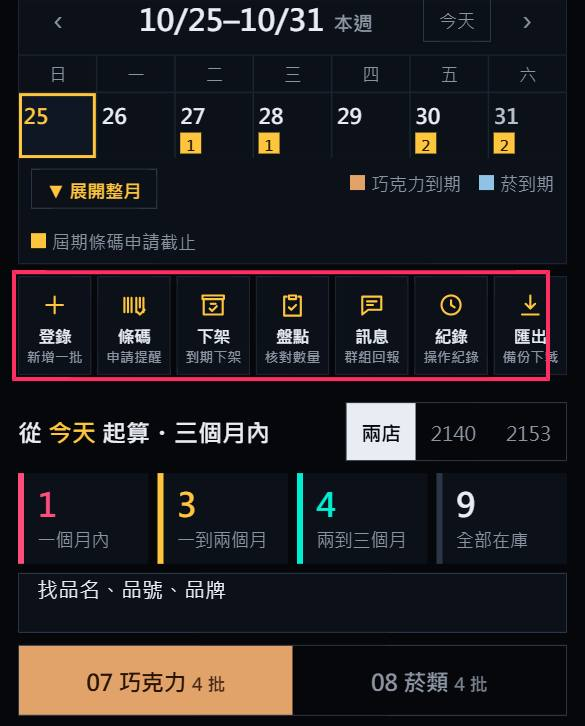
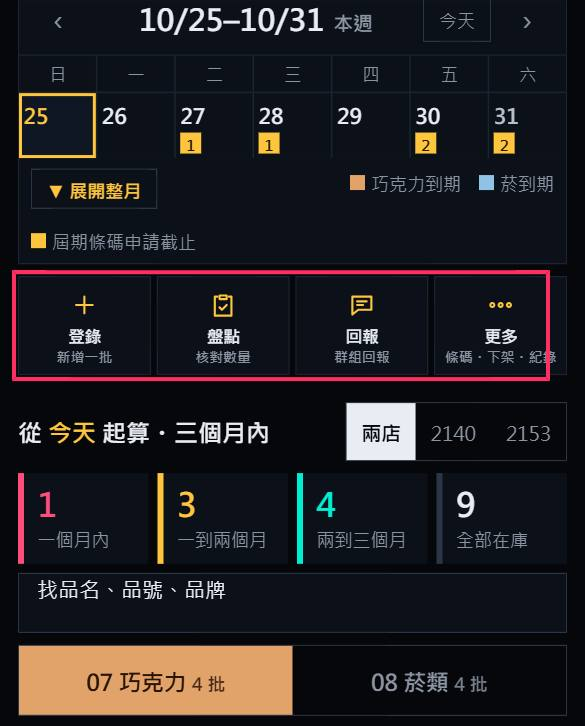
v12: 簡化 4 鍵首頁、回報一鍵複製自動切類、登錄選填收合

Changed region(s): [[0.3077, 0.3939, 0.6769, 0.5152], [0.7077, 0.3939, 0.9538, 0.5152], [0.0308, 0.3939, 0.2769, 0.5152]]

diff --git a/index.html b/index.html
@@ -356,6 +356,17 @@ header{position:sticky;top:0;z-index:10;background:var(--ground);padding-top:8px
 .tb[aria-pressed="true"] small{color:#5a4100}
 .whatis{border:1px solid var(--gold);padding:8px 10px;margin:-2px 0 10px;font-size:12.5px;line-height:1.5;color:var(--ink)}
 .whatis b{color:var(--gold)}
+.tools{grid-template-columns:repeat(4,1fr)!important}
+.hidk{display:none}
+.msum{display:block;width:100%;text-align:left;padding:10px 0;font-size:13px;font-weight:900;color:var(--faint)}
+.msum::before{content:"▸ ";color:var(--gold)}
+.more.open .msum::before{content:"▾ "}
+.more .mbody{display:none}
+.more.open .mbody{display:block}
+.mgrid{display:grid;grid-template-columns:1fr 1fr;gap:8px}
+.mgrid button{border:1px solid var(--edge);background:var(--surface);padding:14px 8px;text-align:left;font-weight:900;font-size:15px}
+.mgrid small{display:block;font-size:11.5px;color:var(--faint);font-weight:700;margin-top:3px}
+#mca button{height:50px;font-size:16px;font-weight:900}
 </style>
 </head>
 <body>
@@ -378,12 +389,10 @@ header{position:sticky;top:0;z-index:10;background:var(--ground);padding-top:8px
 
   <div class="tools">
     <button class="tb" id="tAdd" data-k="add"><svg viewBox="0 0 24 24"><path d="M12 5v14M5 12h14"/></svg>登錄<small>新增一批</small></button>
-    <button class="tb" id="tApply" data-k="apply"><svg viewBox="0 0 24 24"><path d="M4 6v12M7 6v12M10 6v12M14 6v12M17 6v8M20 6v12"/><path d="m15 18 2 2 4-4"/></svg>條碼<small>申請提醒</small></button>
-    <button class="tb" id="tPull" data-k="pull"><svg viewBox="0 0 24 24"><path d="M4 7h16v13H4zM3 4h18v3H3z"/><path d="M10 11h4"/><path d="m9 15 2 2 4-4"/></svg>下架<small>到期下架</small></button>
     <button class="tb" id="tCount" data-k="count"><svg viewBox="0 0 24 24"><path d="M9 4h6v3H9zM7 5H5v16h14V5h-2"/><path d="m9 14 2 2 4-4"/></svg>盤點<small>核對數量</small></button>
-    <button class="tb" id="tMsg" data-k="msg"><svg viewBox="0 0 24 24"><path d="M4 5h16v11H9l-5 4z"/><path d="M8 9h8M8 12h5"/></svg>訊息<small>群組回報</small></button>
-    <button class="tb" id="tLog" data-k="log"><svg viewBox="0 0 24 24"><circle cx="12" cy="12" r="8"/><path d="M12 8v4l3 2"/></svg>紀錄<small>操作紀錄</small></button>
-    <button class="tb" id="tExp" data-k="exp"><svg viewBox="0 0 24 24"><path d="M12 4v11m-4-4 4 4 4-4M5 20h14"/></svg>匯出<small>備份下載</small></button>
+    <button class="tb" id="tMsg" data-k="msg"><svg viewBox="0 0 24 24"><path d="M4 5h16v11H9l-5 4z"/><path d="M8 9h8M8 12h5"/></svg>回報<small>群組回報</small></button>
+    <button class="tb" id="tMore" data-k="more"><svg viewBox="0 0 24 24"><circle cx="5" cy="12" r="1.6"/><circle cx="12" cy="12" r="1.6"/><circle cx="19" cy="12" r="1.6"/></svg>更多<small>條碼・下架・紀錄</small></button>
+    <span class="hidk"><button class="tb" id="tApply" data-k="apply"><svg viewBox="0 0 24 24"><path d="M4 6v12M7 6v12M10 6v12M14 6v12M17 6v8M20 6v12"/><path d="m15 18 2 2 4-4"/></svg>條碼<small>申請提醒</small></button><button class="tb" id="tPull" data-k="pull"><svg viewBox="0 0 24 24"><path d="M4 7h16v13H4zM3 4h18v3H3z"/><path d="M10 11h4"/><path d="m9 15 2 2 4-4"/></svg>下架<small>到期下架</small></button><button class="tb" id="tLog" data-k="log"><svg viewBox="0 0 24 24"><circle cx="12" cy="12" r="8"/><path d="M12 8v4l3 2"/></svg>紀錄<small>操作紀錄</small></button><button class="tb" id="tExp" data-k="exp"><svg viewBox="0 0 24 24"><path d="M12 4v11m-4-4 4 4 4-4M5 20h14"/></svg>匯出<small>備份下載</small></button></span>
   </div>
   <div class="panel" id="panel"></div>
 
@@ -599,7 +608,7 @@ $("#lbv").onclick=e=>{if(e.target.id==="lbv")unzoom()};
 function openSheet(h){$("#sheet").innerHTML=h;$("#mask").classList.add("on");const x=$("#sheet .x");if(x)x.onclick=closeSheet}
 function closeSheet(){$("#mask").classList.remove("on")}
 let panelKey="";
-function openPanel(k,h,force,noScroll){const p=$("#panel");if(!force&&panelKey===k&&p.classList.contains("on")){closePanel();return false}if(panelKey==="count"&&k!=="count"){counting=false;draft={};render()}panelKey=k;p.innerHTML=h;p.classList.add("on");document.body.classList.add("pon");document.querySelectorAll(".tools .tb").forEach(b=>b.setAttribute("aria-pressed",b.dataset.k===k));const x=p.querySelector(".x");if(x)x.onclick=closePanel;syncTodo();if(!noScroll)jumpTo(p);return true}
+function openPanel(k,h,force,noScroll){const p=$("#panel");if(!force&&panelKey===k&&p.classList.contains("on")){closePanel();return false}if(panelKey==="count"&&k!=="count"){counting=false;draft={};render()}panelKey=k;p.innerHTML=h;p.classList.add("on");document.body.classList.add("pon");document.querySelectorAll(".tools .tb").forEach(b=>b.setAttribute("aria-pressed",b.dataset.k===k||(b.id==="tMore"&&["apply","pull","log","exp","more"].includes(k))));const x=p.querySelector(".x");if(x)x.onclick=closePanel;syncTodo();if(!noScroll)jumpTo(p);return true}
 $("#panel").addEventListener("click",e=>{const b=e.target.closest(".rgo");if(!b)return;e.preventDefault();e.stopPropagation();quick(b)});
 function syncTodo(){const a=$("#goapply"),b=$("#gopull");if(a)a.setAttribute("aria-pressed",panelKey==="apply");if(b)b.setAttribute("aria-pressed",panelKey==="pull");const c=$("#gomsg");if(c)c.setAttribute("aria-pressed",panelKey==="msg")}
 function jumpTo(el){requestAnimationFrame(()=>requestAnimationFrame(()=>{const sm=!matchMedia("(prefers-reduced-motion: reduce)").matches;try{el.scrollIntoView({behavior:sm?"smooth":"auto",block:"start"})}catch(e){el.scrollIntoView(true)}const off=(document.querySelector("header").offsetHeight||0)+8,y=el.getBoundingClientRect().top+window.scrollY-off;setTimeout(()=>{if(Math.abs(el.getBoundingClientRect().top-off)>40)window.scrollTo(0,y)},sm?450:0)}))}
@@ -633,22 +642,22 @@ function parseExp(s,cat){
 
 /* ---------- add ---------- */
 function addSheet(pre){
-  let cat=pre&&pre.cat||"07",picked=pre&&pre.code?CATMAP[pre.code]:null,newImg="";
+  let cat=pre&&pre.cat||(()=>{try{return localStorage.getItem("sa_exp_cat")}catch(e){}})()||"07",picked=pre&&pre.code?CATMAP[pre.code]:null,newImg="";
   if(!openPanel("add",`<h4>登錄效期<button class="x" aria-label="關閉">×</button></h4>
-  <p class="whatis"><b>登錄＝新增一批。</b>清單裡「沒有」的效期才用登錄（進新貨、發現新效期）。已經有的批只是數量不對，請用「盤點」。</p>
+  <p class="whatis"><b>登錄＝新增一批</b>（清單沒有的效期）。只是數量不對 → 用「盤點」。</p>
   <div class="f"><label>店別</label>${storeSeg("ast",pre&&pre.store||lastStore)}</div>
   <div class="f"><label>大類</label><div class="cat2"><button class="c" data-cat="07">07 巧克力</button><button class="s" data-cat="08">08 菸類</button></div></div>
   <div class="f"><label>品名</label><input id="aname" autocomplete="off" placeholder="打品名、品牌或品號"><div class="pick" id="pick"></div><div id="chosen"></div><div class="rec" id="arec"></div></div>
   <div class="f" id="phf" style="display:none"><label>照片（選填，拍一次之後同品名都會用）</label><input id="aph" type="file" accept="image/*" style="padding-top:9px"></div>
   <div class="f2"><div class="f"><label id="aexpl">有效日期</label><div class="ein"><input id="aexpt" inputmode="numeric" autocomplete="off" enterkeyhint="next"><button type="button" class="cal1" id="aexpb" aria-label="用日曆選">📅</button><input id="aexp" type="date" class="hid" tabindex="-1"><input id="aexpm" type="month" class="hid" tabindex="-1"></div><small class="ev" id="aexpv"></small></div><div class="f"><label>數量</label><input id="aqty" type="number" inputmode="numeric" min="1" value="1"></div></div>
-  <div class="f2"><div class="f"><label>售價（選填）</label><input id="aprice" type="number" inputmode="numeric" min="0" placeholder="例：380" value="${pre&&pre.price||""}"></div><div class="f"><label>屆期折扣（選填）</label><select id="adisc">${discOpts(pre&&pre.disc)}</select></div></div>
+  <div class="more"><button type="button" class="msum" onclick="this.parentNode.classList.toggle('open')">選填：售價、屆期折扣</button><div class="mbody"><div class="f2"><div class="f"><label>售價</label><input id="aprice" type="number" inputmode="numeric" min="0" placeholder="例：380" value="${pre&&pre.price||""}"></div><div class="f"><label>屆期折扣</label><select id="adisc">${discOpts(pre&&pre.disc)}</select></div></div></div></div>
   <p class="byl">操作人：<b class="bylv">${esc(lastBy)||"未選"}</b><small>右上角可換人</small></p>
   <div class="hint" id="ahint"></div>
   <div class="go2"><button class="go" id="asave">存入，登下一批</button><button class="ghost" id="adone">存入並關閉</button></div>
   <div class="sess" id="asess"></div>`,!!pre))return;
   let sess=[];
   wireSeg("ast");
-  const setCat=c=>{cat=c;document.querySelectorAll("[data-cat]").forEach(b=>b.setAttribute("aria-pressed",b.dataset.cat===c));
+  const setCat=c=>{cat=c;try{localStorage.setItem("sa_exp_cat",c)}catch(e){}document.querySelectorAll("[data-cat]").forEach(b=>b.setAttribute("aria-pressed",b.dataset.cat===c));
     $("#aexpt").placeholder=c==="07"?"例 261231":"例 2611";$("#aexpl").textContent=c==="07"?"有效日期":"有效年月";
     $("#aname").placeholder=c==="07"?"打品名、品牌或品號":"例：馬爾斯沁黎雙晶球";if(c==="08"){picked=null;$("#chosen").innerHTML=""}$("#phf").style.display=c==="08"||(!picked&&$("#aname").value.trim())?"block":"none";pick();expPrev();recent()};
   const pick=()=>{
@@ -794,7 +803,7 @@ $("#tApply").onclick=()=>applyPanel(false,false);
 
 /* ---------- count / log / export ---------- */
 $("#tAdd").onclick=()=>addSheet();
-$("#tCount").onclick=()=>{if(!openPanel("count",`<h4>盤點<button class="x" aria-label="關閉">×</button></h4><p class="whatis"><b>盤點＝核對數量，不會新增批次。</b>只改清單上「已經有」的批；點到清單沒有的效期，存完再用「登錄」補登。</p><p class="hint" style="margin:-4px 0 10px">上方每一批都多了數量格，輸入實點後回到這裡存檔。有改的格子會變黃。</p><p id="ctext" style="font-weight:900;margin-bottom:10px">尚未修改任何數量</p><p class="byl">操作人：<b class="bylv">${esc(lastBy)||"未選"}</b><small>右上角可換人</small></p><button class="go" id="csave">存盤點</button><button class="ghost" id="ccancel">取消盤點</button>`,false,true))return;counting=true;draft={};mode="all";bucket=null;$("#csave").onclick=saveCount;$("#ccancel").onclick=closePanel;render();jumpTo($("#panel"))};
+$("#tCount").onclick=()=>{if(!openPanel("count",`<h4>盤點<button class="x" aria-label="關閉">×</button></h4><p class="whatis"><b>盤點＝改數量，不新增批次。</b>清單每批多一格，填實點數量後按「存盤點」。</p><p id="ctext" style="font-weight:900;margin-bottom:10px">尚未修改任何數量</p><p class="byl">操作人：<b class="bylv">${esc(lastBy)||"未選"}</b><small>右上角可換人</small></p><button class="go" id="csave">存盤點</button><button class="ghost" id="ccancel">取消盤點</button>`,false,true))return;counting=true;draft={};mode="all";bucket=null;$("#csave").onclick=saveCount;$("#ccancel").onclick=closePanel;render();jumpTo($("#panel"))};
 async function saveCount(){
   const by=lastBy;if(!by)return needWho();remember(by);
   const ch=Object.keys(draft).map(k=>[lots.find(x=>x.id===k),parseInt(draft[k],10)]).filter(([l,v])=>l&&v>=0&&v!==l.qty);
@@ -864,12 +873,13 @@ function msgSheet(force){
   if(!force)msgDraft={};
   if(!openPanel("msg",`<h4>群組訊息<button class="x" aria-label="關閉">×</button></h4>
   ${segB("mty",[["report","每日回報"],["apply","條碼申請提醒"]],msgType)}
-  ${segB("mst",[["","兩店"],["2140","2140"],["2153","2153"]],msgStore)}
-  ${segB("mca",[["","兩類"],["08","香煙"],["07","巧克力"]],msgCat)}
-  <div id="mopt">${segB("mr",[[1,"一個月內"],[2,"兩個月內"],[3,"三個月內"]],msgRange)}
-  <label style="display:flex;gap:8px;align-items:center;font-size:13px;margin-bottom:8px"><input type="checkbox" id="mdo" ${msgDiscOnly?"checked":""} style="width:20px;height:20px">只列有屆期折扣的</label>
+  ${segB("mca",[["","兩類"],["08","🚬 香煙"],["07","🍫 巧克力"]],msgCat)}
+  <div class="more"><button type="button" class="msum" onclick="this.parentNode.classList.toggle('open')">更多選項：店別・範圍・折扣</button><div class="mbody">${segB("mst",[["","兩店"],["2140","2140"],["2153","2153"]],msgStore)}
+  <div id="mopt2">${segB("mr",[[1,"一個月內"],[2,"兩個月內"],[3,"三個月內"]],msgRange)}
+  <label style="display:flex;gap:8px;align-items:center;font-size:13px;margin-bottom:8px"><input type="checkbox" id="mdo" ${msgDiscOnly?"checked":""} style="width:20px;height:20px">只列有屆期折扣的</label></div></div></div>
+  <div id="mopt">
   <div class="tier" style="display:flex;justify-content:space-between"><span>今日數量</span><span id="mchg" style="color:var(--faint);font-weight:700"></span></div>
-  <p class="whatis"><b>按 − 只是先暫存。</b>要按下面「存數量並複製」才會真的扣帳上數量（盤點看到的數字也會跟著變），並在紀錄留一筆「每日回報扣數」。沒按就關掉＝不會扣。扣到 0 就不會出現在回報。</p>
+  <p class="whatis"><b>今天賣掉幾個就按 −</b>，再按最下面金色按鈕才會扣帳。</p>
   <div id="mlist"></div></div>
   <div class="tier">訊息預覽</div>
   <textarea class="msg" id="mt" aria-label="訊息內容（可直接修改）"></textarea>
@@ -877,13 +887,13 @@ function msgSheet(force){
   <div class="f" id="mbyf" style="margin-top:8px"><p class="byl">操作人：<b class="bylv">${esc(lastBy)||"未選"}</b><small>右上角可換人</small></p></div>
   <button class="go" id="mc">複製訊息</button>
   <button class="shimg" id="mimg">🖼 產生含縮圖的圖片（可分享到 LINE）</button>
-  <p class="hint" id="mimgh" style="margin-top:6px">產生圖片不會存數量；有按 − 的話，先按「存數量並複製」再做圖。</p>`,force,force))return;
+  <p class="hint" id="mimgh" style="margin-top:6px"></p>`,force,force))return;
   $("#mimg").onclick=async()=>{const pend=msgType==="report"?changed().length:0;const b=$("#mimg");b.disabled=true;b.textContent="圖片產生中…";try{await shareImg(msgType==="report")}catch(e){toast("圖片沒做成功："+(e.message||e))}b.disabled=false;b.textContent="🖼 產生含縮圖的圖片（可分享到 LINE）";if(pend)setTimeout(()=>toast(`提醒：還有 ${pend} 批數量沒存，按「存數量並複製」才會扣帳上數量`),2200)};
   const changed=()=>reportLots().filter(l=>mq(l)!==l.qty);
   const list=()=>{const a=reportLots();$("#mlist").innerHTML=a.length?a.map(l=>{const v=mq(l),d=v-l.qty;return `<div class="mrow"><span class="mn"><b>${l.store||"?"} ${l.cat==="07"?"🍫":"🚬"} ${esc(l.name)}</b><small>${fx(l)}${l.disc?"　⬇"+l.disc:""}　帳上 ${l.qty}${d?`<em class="${d<0?"m":"p"}">${d>0?"+":""}${d}</em>`:""}</small></span><span class="step"><button data-dq="${l.id}" data-v="-1" aria-label="減一">−</button><input data-iq="${l.id}" type="number" inputmode="numeric" min="0" value="${v}" class="${d?"chg":""}" aria-label="今日數量"><button data-dq="${l.id}" data-v="1" aria-label="加一">＋</button></span></div>`}).join(""):`<p class="hint">沒有符合的品項</p>`};
-  const fill=()=>{const rep=msgType==="report";$("#mopt").style.display=rep?"":"none";$("#mimgh").style.display=rep?"":"none";$("#mbyf").style.display=rep?"":"none";$("#mt").value=rep?buildReport():buildApplyMsg();
-    const n=rep?changed().length:0;$("#mchg").textContent=n?`已改 ${n} 批`:"";$("#mc").textContent=n?`存數量並複製（${n} 批）`:"複製訊息";
-    $("#mhint").textContent=rep?`以 ${mdS(sel)} 起算，不含已過期。內容可以先改再複製。`:"列出本週要申請與已逾期未申請的批次。"};
+  const fill=()=>{const rep=msgType==="report";$("#mopt").style.display=rep?"":"none";$("#mopt2").style.display=rep?"":"none";$("#mimgh").style.display="none";$("#mbyf").style.display=rep?"":"none";$("#mt").value=rep?buildReport():buildApplyMsg();
+    const n=rep?changed().length:0;$("#mchg").textContent=n?`已改 ${n} 批`:"";$("#mc").textContent=rep?`複製${msgCat==="07"?"🍫 巧克力":"🚬 香煙"}回報`+(n?`（並扣 ${n} 批數量）`:""):"複製訊息";
+    $("#mhint").textContent=rep?"內容可以先改再複製。":"列出本週要申請與已逾期未申請的批次。"};
   const full=()=>{const rep=msgType==="report",cb=document.querySelector('#mca [data-m=""]');if(cb)cb.style.display=rep?"none":"";if(rep&&!msgCat){msgCat="08";document.querySelectorAll("#mca button").forEach(x=>x.setAttribute("aria-pressed",x.dataset.m==="08"))}list();fill()};full();
   const bind=(id,set)=>{$("#"+id).onclick=e=>{const b=e.target.closest("[data-m]");if(!b)return;set(b.dataset.m);document.querySelectorAll(`#${id} button`).forEach(x=>x.setAttribute("aria-pressed",x===b));full()}};
   bind("mty",v=>msgType=v);bind("mst",v=>msgStore=v);bind("mca",v=>msgCat=v);bind("mr",v=>msgRange=+v);
@@ -897,14 +907,19 @@ function msgSheet(force){
     const txt=$("#mt").value,ch=msgType==="report"?changed():[];
     if(ch.length){const by=lastBy;if(!by)return needWho();remember(by);const at=Date.now();
       try{for(const l of ch){const v=mq(l);await putLot({...l,qty:v});await putLog({id:uid(),t:"每日回報扣數",lot:l.id,cat:l.cat,name:l.name,exp:l.exp,from:l.qty,to:v,by,at})}}catch(e){return toast("數量沒存成功："+(e.code||e.message))}
-      msgDraft={};}
+      ch.forEach(l=>delete msgDraft[l.id]);}
     const ok=await copy(txt);
-    if(ch.length)msgSheet(true);
-    toast(ok?(ch.length?`已存 ${ch.length} 批數量，訊息已複製`:"已複製，貼到群組即可")+(msgType==="report"?`；接著切到「${msgCat==="08"?"巧克力":"香煙"}」複製第二則`:""):"已全選，請長按選「複製」");
+    const was=msgCat,rep=msgType==="report";
+    if(rep&&ok&&was==="08"){msgCat="07";msgSheet(true)}else if(ch.length)msgSheet(true);
+    toast(ok?(rep?(was==="08"?`已複製香煙回報${ch.length?`，扣了 ${ch.length} 批`:""}。已切到巧克力，貼完再按一次`:`已複製巧克力回報${ch.length?`，扣了 ${ch.length} 批`:""}，貼到群組即可`):"已複製，貼到群組即可"):"已全選，請長按選「複製」");
     if(!ok){const t=$("#mt");if(t){t.value=txt;t.focus();t.select()}}
   };
 }
 $("#tMsg").onclick=()=>msgSheet(false);
+function morePanel(){if(!openPanel("more",`<h4>更多功能<button class="x" aria-label="關閉">×</button></h4>
+  <div class="mgrid"><button data-go="tApply">條碼申請<small>到期前3/2/1個月</small></button><button data-go="tPull">下架<small>到下架日的批次</small></button><button data-go="tLog">紀錄<small>誰做了什麼</small></button><button data-go="tExp">匯出<small>Excel、備份</small></button></div>`))return;
+  $("#panel").querySelectorAll("[data-go]").forEach(b=>b.onclick=()=>document.getElementById(b.dataset.go).click())}
+$("#tMore").onclick=morePanel;
 const loadImg=src=>new Promise(res=>{if(!src)return res(null);const i=new Image();if(!src.startsWith("data:"))i.crossOrigin="anonymous";i.onload=()=>res(i);i.onerror=()=>res(null);i.src=src;setTimeout(()=>res(null),8000)});
 async function shareImg(rep){
   let items;
@@ -955,7 +970,7 @@ const GUIDE=[
  {t:"開始之前",s:"先認識畫面，紅框就是要看、要按的地方",f:[
   ["右上角選「操作人」",`點 ${K("操作人？")} 選你自己，選一次就會記住。名單沒有你，請管理者到 ${K("⚙")} 新增。`,0,"g01"],
   ["看「今日任務」和行事曆",`最上面三格是今天要做的：金＝申請屆期條碼、紅＝該下架、綠＝每日回報，點下去直接處理。行事曆平常收成一週，按 ${K("▼ 展開整月")} 看整個月；小數字＝那天到期的批數。`,0,"g02"],
-  ["下方 7 個功能鍵",`${K("登錄")}${K("條碼")}${K("下架")}${K("盤點")}${K("訊息")}${K("紀錄")}${K("匯出")}，每個鍵下面的小字就是用途；點了會在功能列下方展開。`,0,"g03"],
+  ["下方 4 個功能鍵",`${K("登錄")}${K("盤點")}${K("回報")}${K("更多")}；條碼申請、下架、紀錄、匯出放在「更多」裡。`,0,"g03"],
   ["看清單",`手機上用分頁切換 ${K("07 巧克力")}／${K("08 菸類")}。每批下面有快速鍵：${K("−1","t")} 賣出、${K("條碼✓")} 已申請、${K("下架","r")}。點品名可以修改。`,1,"g12"]]},
  {t:"登錄還是盤點？",s:"先問自己：這個效期，清單裡有沒有？",f:[
   ["清單裡「沒有」這個效期 → 用「登錄」",`登錄＝${K("新增一批")}。進新貨、補貨、在架上發現清單沒有的效期，都用登錄。同一個商品、不同效期要分開登，各算一批。`,0,"g04"],
@@ -966,21 +981,21 @@ const GUIDE=[
   ["選店別、大類",`${K("2140","t")} 或 ${K("2153","r")}；${K("07 巧克力")} 或 ${K("08 菸類")}`,0,"g04"],
   ["打品名，從清單點選",`巧克力打品名、品牌或品號都可以找；香菸自己打品名，可以有空格（注音要等字選好、沒有底線時再按空白）。常登的可以直接點下方「最近登過」。`,0,"g05"],
   ["效期直接打數字",`巧克力打 ${K("271231")} 或包裝上的 ${K("31.12.2027")}；菸打 ${K("2611")}。下面綠字會顯示換算後的日期和剩幾天，確認沒錯再往下。`,0,"g06"],
-  ["打數量，按「存入，登下一批」","數量欄按 Enter 也一樣是存入。照片可以現場拍，也可以從相簿選。",0,"g07"],
+  ["打數量，按「存入，登下一批」","數量欄按 Enter 也一樣。售價、折扣收在「選填」裡；店別、大類會記住上次選的。",0,"g07"],
   ["接著登下一批，全部登完按「存入並關閉」",`店別、效期會保留，下面列出這次登了哪些。同店同品項同效期已經有的，會問你要不要 ${K("合併")}。`,1,"g08"]]},
  {t:"屆期條碼申請",s:"到期前 3、2、1 個月各申請一次，進入前一週要申請好",f:[
-  ["點金色待辦「批要申請屆期條碼」",`或按功能列 ${K("條碼")}。紅底「逾期」＝已經進入該月份還沒申請。`,0,"g09"],
+  ["點金色待辦「批要申請屆期條碼」",`或按 ${K("更多")} → ${K("條碼申請")}。紅底「逾期」＝已經進入該月份還沒申請。`,0,"g09"],
   ["清單分 🍫巧克力、🚬香煙 兩區",`每區再分 3／2／1 個月。每區右邊 ${K("複製申請訊息")} 只複製那一類，貼給負責的人。每列按「已申請」一鍵完成。`,0,"g10"],
   ["批次處理：勾選後按「確認已申請」","記在右上角操作人名下。按錯了底部 6 秒內可「復原」，或在下方「最近已申請」按兩次復原。",1,"g11"],
   ["（更快）清單上直接按「條碼✓」","一批一批處理時用這個，按完 6 秒內底部可以「復原」。",0,"g12"]]},
  {t:"下架",s:"巧克力距效期 40 天下架（GODIVA、神戶風月堂 30 天）",f:[
-  ["點紅色待辦「批該下架」",`或按功能列 ${K("下架")}，可以切「全部品項」手動下架。`,0,"g02"],
+  ["點紅色待辦「批該下架」",`或按 ${K("更多")} → ${K("下架")}，可以切「全部品項」手動下架。`,0,"g02"],
   ["每列按「下架」，或勾選後按「確認下架」","每列的「下架」要按兩次才會下架。下架錯了在下方「最近下架」按兩次復原。",1,"g13"],
   ["（更快）清單上紅色「下架」",`按一下變「確認下架」，再按一次才會下架，防止誤按。`,0,"g14"]]},
  {t:"每日回報（群組訊息）",s:"每天貼到群組的屆期回報",f:[
-  ["按「訊息」，選每日回報和範圍",`上到下：每日回報／條碼申請提醒、店別、香煙或巧克力、一～三個月內。每日回報 ${K("香煙")}、${K("巧克力")} 分兩則：先選香煙複製貼上，再切巧克力複製貼上。`,0,"g15"],
+  ["按「回報」",`預設是 ${K("每日回報")}、${K("🚬 香煙")}。店別、範圍收在「更多選項」，平常不用動。`,0,"g15"],
   ["今天賣掉幾個就按 −",`按 − 只是暫存，訊息先跟著改；要按 ${K("存數量並複製")} 才會真的扣帳上數量（盤點看到的也會變）。沒按就關掉＝不會扣。`,0,"g16"],
-  ["按「存數量並複製」，或做成縮圖圖片",`數量寫回系統、訊息已複製，直接貼到群組。按 ${K("🖼 產生含縮圖的圖片")} 會做成有商品照片的長圖，手機可以直接分享到 LINE。做圖不會存數量，有按 − 要先按「存數量並複製」。`,1,"g17"]]},
+  ["按金色按鈕複製，貼到群組；再按一次是巧克力",`按 ${K("複製🚬香煙回報")} → 貼群組 → 自動切到巧克力 → 再按一次 → 貼群組。按 − 的數量會在這時一起扣。要附商品圖就按 ${K("🖼 產生含縮圖的圖片")}。`,1,"g17"]]},
  {t:"賣出、修改、刪除",s:"平常維護效期資料",f:[
   ["賣掉一個：按「−1」",`數量直接扣 1，底部出現提示，6 秒內按 ${K("復原")} 可以撤回。`,0,"g18"],
   ["要修改：點品名，改完按「存修改」",`可以改店別、效期、數量、售價、折扣，香菸還能改品名。效期一樣直接打數字。最下面 ${K("刪除這批","r")} 要管理者登入（⚙），按兩次才刪，刪完也能復原。`,1,"g19"]]},
